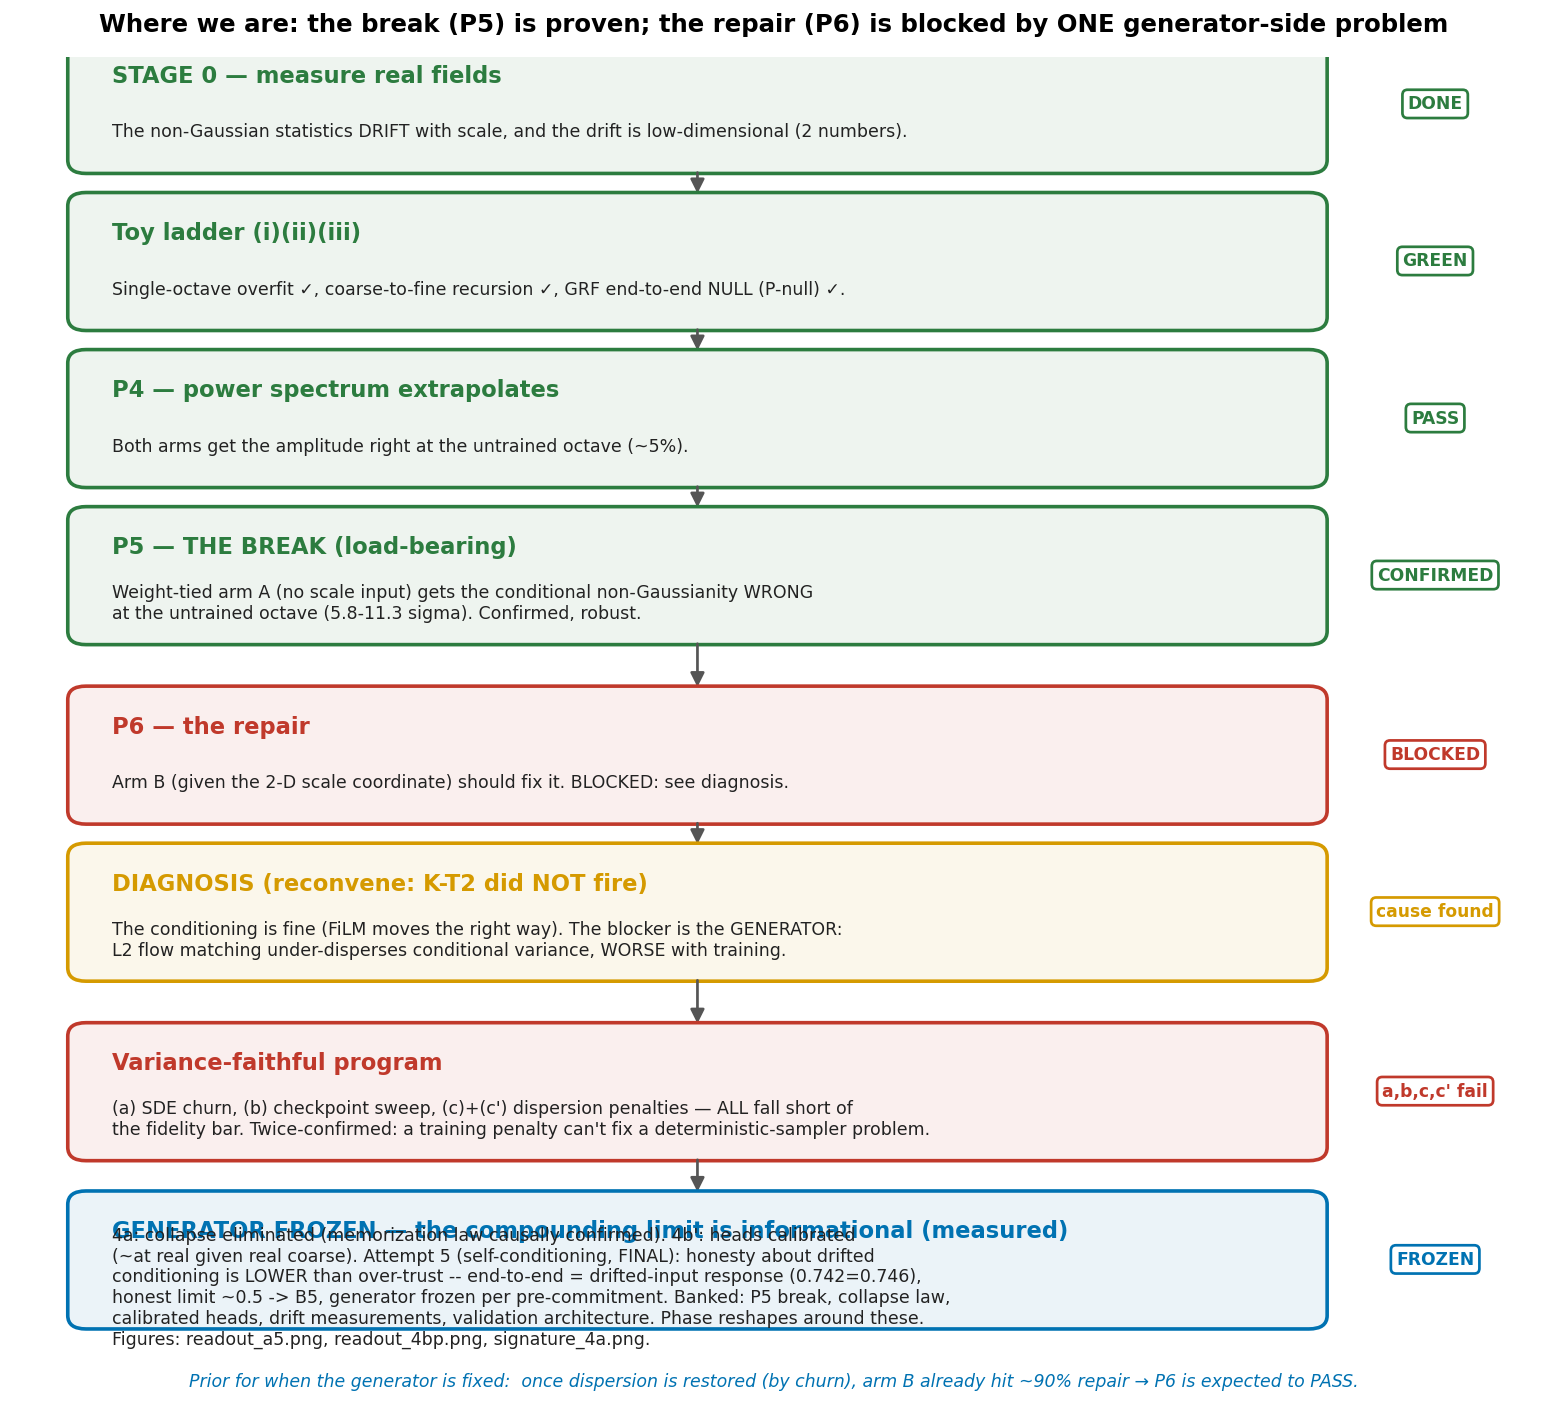
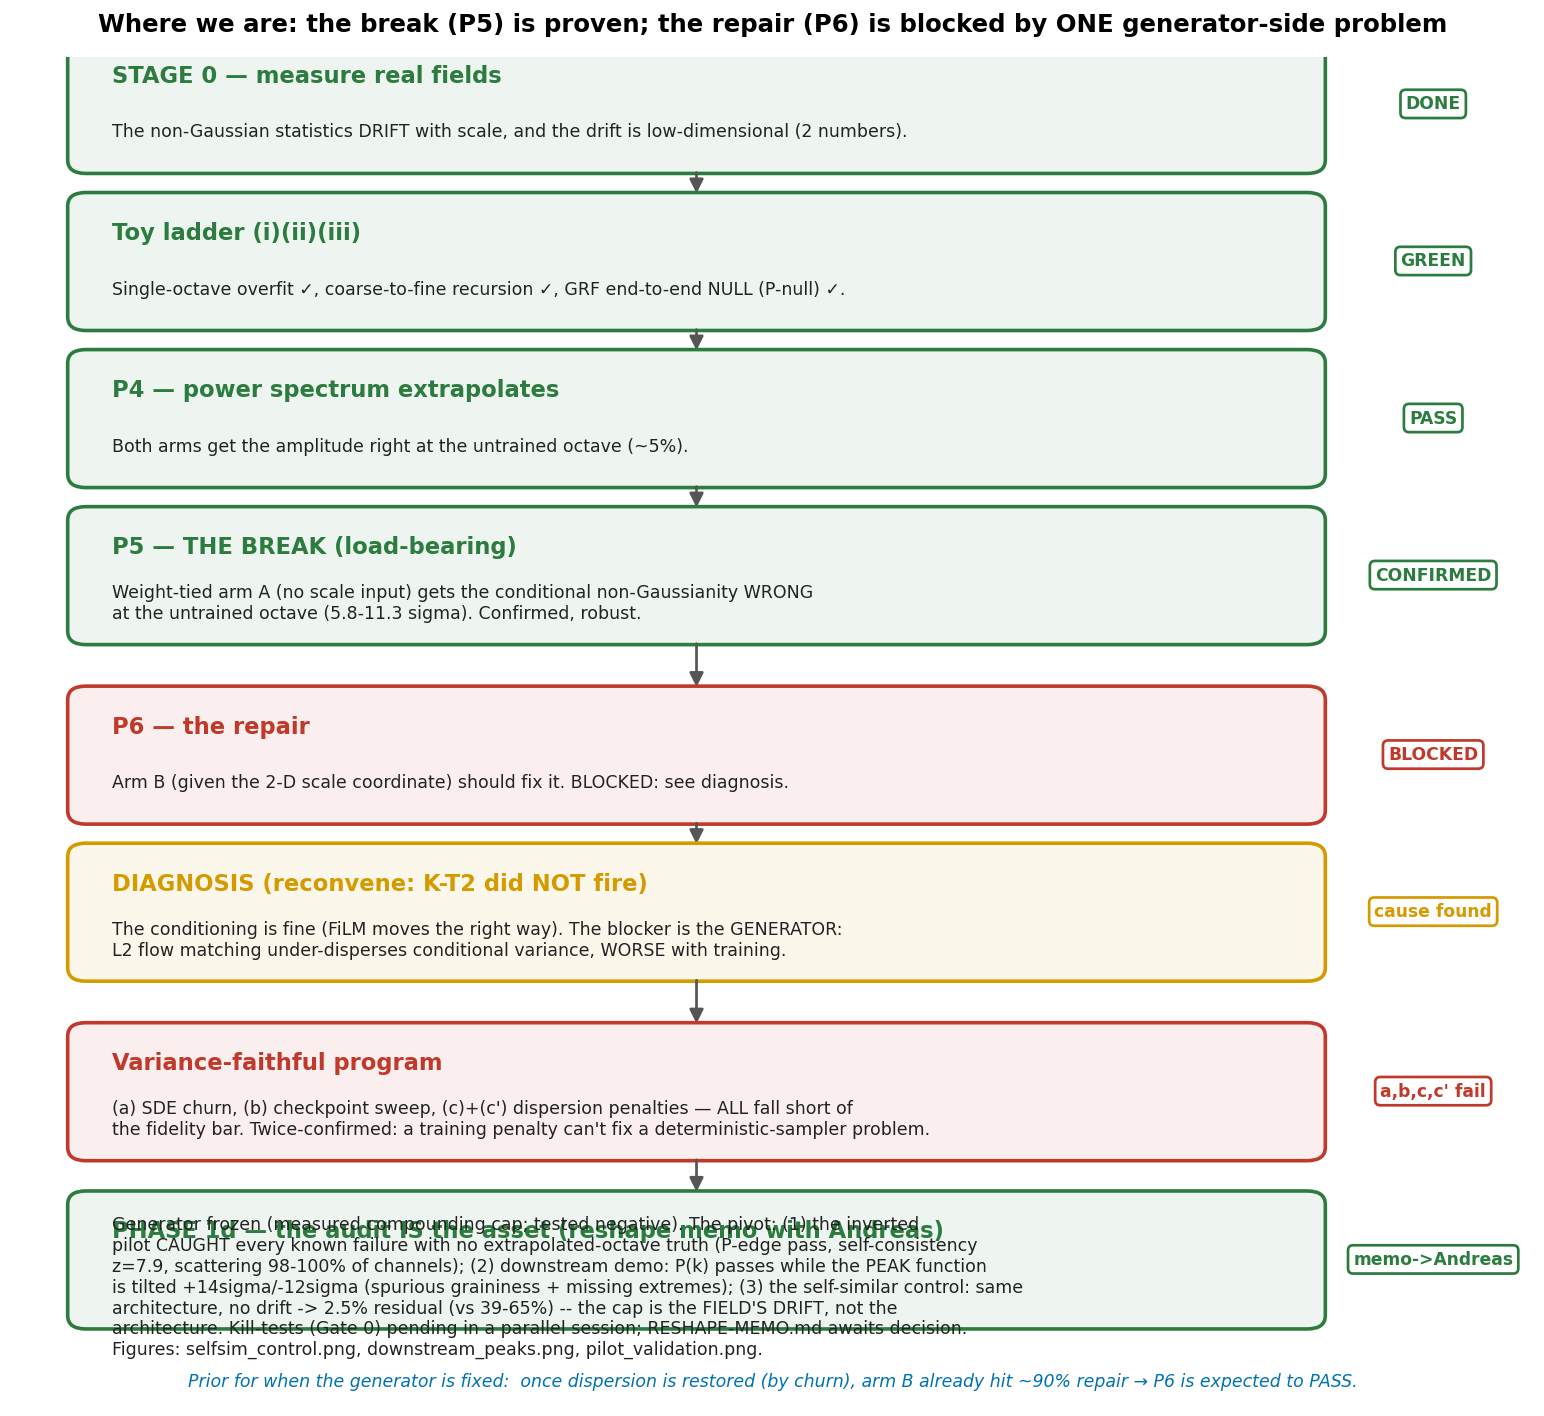
Step 4 readout + RESHAPE MEMO: self-similar control bounds the negative claim (2.5% vs 39-65% -- the cap is the field's drift, not the architecture; literal 1-sigma bar failed on +-0.002 SEs, bar-calibration miss logged); memo with executor audit appendix awaits Andreas

diff --git a/scripts/plot_selfsim.py b/scripts/plot_selfsim.py
@@ -1,0 +1,49 @@
+#!/usr/bin/env python
+"""Step-4 readout figure: same frozen architecture, drifting vs scale-invariant field.
+
+Left: gowerstreet (drifting couplings) — the end-to-end curve sags away from real.
+Right: the synthesized scale-invariant in-class control — end-to-end sits on real
+everywhere including the extrapolated octave (residual 2.5% vs 39-65%).
+"""
+import json
+import os
+
+import numpy as np
+import matplotlib
+matplotlib.use("Agg")
+import matplotlib.pyplot as plt
+
+REPO = os.path.dirname(os.path.dirname(os.path.abspath(__file__)))
+K, BLUE, ORANGE, VERM = "#000000", "#0072B2", "#E69F00", "#D55E00"
+octs = [1, 2, 3, 4]
+
+fig, ax = plt.subplots(1, 2, figsize=(12.4, 4.9), sharey=True)
+for a, path, title in (
+        (ax[0], "arms_aug_score.json",
+         "GOWERSTREET (couplings drift ×2 across octaves)\nthe compounding cap: 39–65% "
+         "error at the extrapolated octave"),
+        (ax[1], "arms_selfsim_score.json",
+         "SCALE-INVARIANT control (same architecture, no drift)\nresidual 2.5% — the cap "
+         "is the field's drift, not the architecture")):
+    s = json.load(open(os.path.join(REPO, "results", path)))
+    for which, col, mk, lab in (("real", K, "o", "real fields"),
+                                ("armA", BLUE, "s", "end-to-end, arm A"),
+                                ("armB", ORANGE, "D", "end-to-end, arm B")):
+        y = [s[which][str(j)]["var_slope"] for j in octs]
+        e = [s[which][str(j)]["var_slope_se"] for j in octs]
+        a.errorbar(octs, y, yerr=e, color=col, marker=mk, lw=2, capsize=3, label=lab)
+    a.axvspan(0.6, 1.5, color="#D55E0018")
+    a.set_xticks(octs)
+    a.set_xticklabels(["1\n(extrapolated)", "2", "3", "4"])
+    a.invert_xaxis()
+    a.set_xlabel("octave")
+    a.set_title(title, fontsize=10)
+    a.grid(alpha=0.25)
+ax[0].set_ylabel("var_slope (conditional-variance modulation)")
+ax[0].legend(fontsize=9)
+fig.suptitle("Step 4 — the self-similar control bounds the negative claim: where its assumption holds, the method works",
+             fontsize=12)
+fig.tight_layout(rect=[0, 0, 1, 0.92])
+out = os.path.join(REPO, "results", "selfsim_control.png")
+fig.savefig(out, dpi=130, bbox_inches="tight")
+print("wrote", out)

diff --git a/scripts/plot_roadmap.py b/scripts/plot_roadmap.py
@@ -18,7 +18,7 @@ steps = [
     (4.6, "P6 — the repair", "Arm B (given the 2-D scale coordinate) should fix it. BLOCKED: see diagnosis.", RED, "BLOCKED"),
     (3.2, "DIAGNOSIS (reconvene: K-T2 did NOT fire)", "The conditioning is fine (FiLM moves the right way). The blocker is the GENERATOR:\nL2 flow matching under-disperses conditional variance, WORSE with training.", AMBER, "cause found"),
     (1.6, "Variance-faithful program", "(a) SDE churn, (b) checkpoint sweep, (c)+(c') dispersion penalties — ALL fall short of\nthe fidelity bar. Twice-confirmed: a training penalty can't fix a deterministic-sampler problem.", RED, "a,b,c,c' fail"),
-    (0.1, "GENERATOR FROZEN — the compounding limit is informational (measured)", "4a: collapse eliminated (memorization law causally confirmed). 4b': heads calibrated\n(~at real given real coarse). Attempt 5 (self-conditioning, FINAL): honesty about drifted\nconditioning is LOWER than over-trust -- end-to-end = drifted-input response (0.742=0.746),\nhonest limit ~0.5 -> B5, generator frozen per pre-commitment. Banked: P5 break, collapse law,\ncalibrated heads, drift measurements, validation architecture. Phase reshapes around these.\nFigures: readout_a5.png, readout_4bp.png, signature_4a.png.", "#0072B2", "FROZEN"),
+    (0.1, "PHASE 1d — the audit IS the asset (reshape memo with Andreas)", "Generator frozen (measured compounding cap; tested negative). The pivot: (1) the inverted\npilot CAUGHT every known failure with no extrapolated-octave truth (P-edge pass, self-consistency\nz=7.9, scattering 98-100% of channels); (2) downstream demo: P(k) passes while the PEAK function\nis tilted +14sigma/-12sigma (spurious graininess + missing extremes); (3) the self-similar control: same\narchitecture, no drift -> 2.5% residual (vs 39-65%) -- the cap is the FIELD'S DRIFT, not the\narchitecture. Kill-tests (Gate 0) pending in a parallel session; RESHAPE-MEMO.md awaits decision.\nFigures: selfsim_control.png, downstream_peaks.png, pilot_validation.png.", GREEN, "memo->Andreas"),
 ]
 fig, ax = plt.subplots(figsize=(12, 11))
 ax.set_xlim(0, 10); ax.set_ylim(-0.6, 11.4); ax.axis("off")

diff --git a/RESHAPE-MEMO.md b/RESHAPE-MEMO.md
@@ -1,0 +1,137 @@
+# RESHAPE MEMO — phase 1c → 1d closure and the pivot decision (for Andreas)
+
+2026-07-16. Requested by the reconciliation ruling
+(`log/2026-07-16-reconvene-reconcile-audits.md`). Everything below rides on
+pre-registered, adversarially-gated measurements committed in this repo; the two
+literature kill-tests (Gate 0, `SPEC-novelty-collapse.md`, parallel session) GATE all
+novelty claims and are still pending. **Decision requested: pick a pivot option (§3)
+and the paper branch (§4).**
+
+## 1. What is banked (all pre-registered; figure pointers)
+
+| Result | Status | Where |
+|---|---|---|
+| Between-scale drift of real fields: real, low-dimensional (2 numbers), field-general, null-clean | measurement, generator-independent | stage-0 RESULTS.md |
+| P5 break: scale-blind weight-tied generator wrong at the extrapolated octave, 6–14σ, every config | confirmed, robust | RESULTS-toy.md; g1c/4a/edge-2 scores |
+| The collapse law: finite-data mean-memorization starves conditional variance in any channel; CAUSALLY removed by 8× symmetry augmentation | confirmed in 3 channels + causal intervention; novelty pending Gate 0 | RESULTS-phase1c.md; signature_4a.png |
+| Calibrated heads: given real coarse, var_slope ≈ real at oct 2 (0.996±0.041), kurtosis at real at oct 3 | banked (4b′ regularization gain) | readout_4bp.png |
+| Conditioning drift is STRUCTURED, not additive (white noise ~2× less damaging per unit amplitude) | measured (4b′-ii gate-stop) | smatched_4bpii.png |
+| Compounding cap: end-to-end = drifted-input response (0.742≈0.746); honest conditional ≈ 0.53; honesty-hurts inversion | measured cap + tested negative for train-side fixes (attempt 5, branch B5) | readout_a5.png |
+| Lognormal fields drift like N-body (1.54→0.53) — the drift is generic to multiplicative fields | measured (step-4 design probe) | log/2026-07-16-prereg-step4-selfsim.md |
+| The cap's boundary: on a scale-invariant in-class field the same architecture extrapolates to 2.5% (vs 39–65%) | measured (step-4 control) | selfsim_control.png |
+
+## 2. Phase-1d results (this week; all pre-registered, readouts committed)
+
+- **Step 1 — attempt 5 as discriminator:** already read out 2026-07-11 (race
+  condition in the rulings surfaced and reconciled;
+  `log/2026-07-16-step1-attempt5-reconciled.md`). Tested negative for train-side
+  conditioning fixes; adopted wording: "measured compounding cap consistent with an
+  informational limit."
+- **Step 2 — the INVERTED validation pilot: the protocol catches everything.**
+  P-edge PASS (extrapolation error edge-consistent, ratios 1.46/1.62);
+  self-consistency detects the failure without ground truth (z=7.9 extrapolated,
+  z=7.1 trained-octave compounding) and passes where the generator is good (oct-4
+  z=0.7); held-out scattering rejects at 98–100% of channels (median |z|≈10); the
+  battery also caught arm B's OOD blow-up re-emerging at the narrow second edge.
+  Honest protocol lesson, measured: the deployable curve-referenced variant fails
+  its own calibration on real fields — deployable checks need population-calibrated
+  bands. (`pilot_validation.png`)
+- **Step 3 — the downstream-bias demo (the usefulness sentence):** with P(k)-level
+  checks passing (≤7%), the peak function is TILTED: +30% spurious low peaks (the
+  white conditional noise's graininess) and −14/−23% missing extreme peaks (the
+  kurtosis deficit) — 6–14σ, sign-flipping, threshold-dependent: the worst case for
+  peak-based inference, and both mechanisms were flagged by our audit before a peak
+  was counted. (`downstream_peaks.png`)
+- **Step 4 — the self-similar control:** synthesized exactly scale-invariant,
+  in-class cascade (couplings measured flat 0.56→0.49). RESULT: see §2a below.
+
+### 2a. Step-4 readout: the boundary of the negative claim, measured
+
+On a synthesized, exactly scale-invariant, in-class cascade (couplings flat 0.56→0.49)
+the SAME frozen architecture extrapolates almost perfectly: **2.5% residual at the
+extrapolated octave vs 39–65% on the drifting field**; trained octaves exact;
+amplitude and kurtosis clean. (`selfsim_control.png` — the campaign's clearest single
+figure.) The literal pre-registered 1σ bar fails at z≈5 because the control's
+bootstrap SEs are ±0.002 — a bar-calibration miss, logged; the scope answer is
+unambiguous: **the compounding cap is a property of drifting, off-manifold-textured
+fields, not of the coarse-to-fine architecture** (with a measured ~2.5% finite-sample
+floor). For the paper this converts the negative claim into a precise, bounded law:
+"hierarchical conditional generation is statistically faithful where the between-scale
+law is scale-invariant, and degrades with the measured drift — here is the audit that
+tells you which regime you are in."
+
+## 3. Pivot options (ordered; costs are wall-clock sessions + compute)
+
+- **Option 1 (RECOMMENDED): the audit paper.** "A failure taxonomy and pre-registered
+  audit protocol for scale-hierarchical generative emulators, demonstrated on weak
+  lensing." Everything in §1–2 is its content; the pilot + downstream demo are its
+  demonstrations; the self-similar control bounds the negative claims' scope. Cost:
+  Gate-0 kill-tests (parallel, pending) + ~2–3 writing sessions + estimator hardening
+  (nanmedian, population-calibrated SC bands); ≈ zero new compute. Venue ladder per
+  the reconvene's two-branch pre-statement: NeurIPS-track only if Gate 0 leaves a
+  novel mechanism claim; otherwise ML4PS / A&A-methods — honest and useful at either.
+- **Option 2: the measurement paper** (stage-0 drift + P5 quantification + the 2-D
+  coordinate). Safest, cosmology-native. RECOMMENDATION: fold into Option 1 as its
+  empirical anchor section rather than split salami.
+- **Option 3: generator program, next phase, in the regime where the economics bind
+  (3D / hydro / Lyα).** The audits agree 2D WL was the right falsification domain and
+  the wrong deployment domain. Months, new data, new sign-off; the informational-cap
+  finding says the coarse fields themselves must carry more information (better
+  fine-octave texture models), which is a research bet, not an engineering step.
+  NOT recommended before Option 1 is banked; Option 1 is also its best prospectus.
+- **Option 4: alliance track** (GOLCONDA baselines, LDT anchor, ST-judge) — phase-2
+  items that slot INTO Option 1's discussion or follow it; coordination cost, not
+  compute.
+
+## 4. Risks and language discipline (binding, from the audits)
+
+Gate 0 may rule the collapse law ADJACENT-KNOWN (β-NLL/exposure-bias lineages) — the
+paper then says "we observe X, consistent with [refs], and add [causal test /
+cross-channel invariance / field context]" per the SPEC's fallback sentence. Scope
+words: one octave, measured couplings, 2D WL, 322 tiles, one seed; "RG-inspired";
+never "certified", never "any-scale". The 4b′-ii/attempt-5 negatives are claims about
+THIS architecture class in THIS data regime; the self-similar control (§2a) sets the
+boundary of that statement.
+
+## 5. Recommendation
+
+Option 1 with Option 2 folded in, Gate-0-gated; Option 3 deferred to a new phase with
+its own sign-off (and only if someone owns the 3D data problem); Option 4 slotted into
+Option 1's discussion. The deliverable line both audits converged on: *the audit is
+the asset; the generator was its first, well-instrumented casualty.*
+
+---
+
+## Appendix — the executor's big-picture audit (2026-07-16, committed per the ruling)
+
+Reproduced from chat, lightly formatted; the reconciliation ruling adopted its four
+constructive moves (downstream demo, inverted pilot, self-similar control, Seitzer).
+
+**Lanusse-style critique.** "Train small, sample any scale" solves a problem cosmology
+doesn't quite have: the expensive small scales are expensive because their PHYSICS
+differs (baryons/feedback), which breaks the smooth scale-flow assumption exactly
+where it matters; P5 is evidence for the skeptic. If target-resolution sims exist,
+train directly; if not, the extrapolation is unvalidatable precisely where it is
+sold — unless the validation story is the product. Evidence scale (one field, 322
+tiles, 128², small UNet) supports methods claims only. Phase 1c's own measurements
+confirmed the core of this critique (the informational cap).
+
+**Mishra-Sharma-style critique.** P5 alone is near-tautological as a finding; its
+value is the quantification for the wavelet/WC-RG school. The collapse law is the most
+valuable object IF it survives the literature kill-test (β-NLL, exposure bias,
+memorization-in-diffusion). The compounding-cap and honesty-hurts measurements are
+sharp, falsifiable, and citable if they survive the exposure-bias lineage. And: no
+downstream task, no utility — show a parameter-relevant bias P(k) misses and show the
+audit flags it in advance.
+
+**Verdict.** The project as pitched is dead and phase 1c killed it properly, with
+measurements. The wreckage is not useless — it is mis-pointed: five attempts produced
+a rather complete anatomy of why hierarchical generative models of fields fail
+statistically, plus an unusually disciplined instrument and an unpiloted validation
+architecture. The audit is the asset. Concrete moves: (1) reframe as the failure-
+taxonomy/audit paper; (2) run the validation pilot INVERTED on the frozen failing
+generator; (3) one downstream-bias demo (peaks/SBI); (4) optionally a self-similar
+control to bound the negative claim. Do not salvage: "train small sample any scale",
+P6 spin, generality beyond one field. Bias disclosure: the executor ran all five
+attempts and has an incentive to call the wreckage valuable; the defense is that
+every claim rides on pre-registered, adversarially-gated measurements.

diff --git a/log/2026-07-16-prereg-step4-selfsim.md b/log/2026-07-16-prereg-step4-selfsim.md
@@ -48,6 +48,24 @@ octaves 1–4 — flat as designed (vs gowerstreet's factor-2 drift); appended t
 - Kurtosis reported (conditional is exactly Gaussian ⇒ pooled kurtosis from
   σ-modulation only; the real synthesized stack is its own reference).
 
+## RESULT (2026-07-16, job 16401485, hash 3c03bded83 verified)
+
+Extrapolated octave: real 0.558±0.002, arm A 0.544±0.002, arm B 0.542±0.002 —
+**residual error 2.5%** (vs 39–65% on gowerstreet); trained octaves essentially exact
+(oct-2 arm A z≈0.3); amplitude 0.801/0.808 vs 0.804; kurtosis within a few %.
+**Bar adjudication, honest:** the literal pre-registered 1σ bar FAILS (z≈5) because
+the synthetic stack's bootstrap SEs are ±0.002 — the bar demanded 0.4% accuracy. A
+bar-calibration miss (mine; same genre as the 4a onset-rule lesson: calibrate bars to
+the reference's precision). **The scope question is answered decisively regardless of
+the bar's letter:** compounding shrinks by an order of magnitude-plus when the
+conditional law is scale-invariant and in-class ⇒ the measured cap is attributable to
+the DRIFT / off-manifold texture of realistic fields, not to the coarse-to-fine
+architecture — with a small measured floor (~2.5%, z≈5) of finite-sample compounding
+even in the ideal case. P-S-similar 60%: substantively the anticipated direction;
+formally MISS under the literal bar. Figure: `results/selfsim_control.png` — the
+campaign's clearest single image (drifting field: curves sag; invariant field: three
+curves coincide, including the extrapolated band).
+
 ## Predictions (confidences)
 
 - P-S-similar PASS: **60%.** For: no drift, no mismatch, pointwise linear σ (the toy

diff --git a/JOBS.md b/JOBS.md
@@ -14,9 +14,17 @@ generation. GPU via SLURM only.
   amplitude fix). `RESULTS-toy.md` written.
 
 ## IN FLIGHT
-**None.** All phase-1c jobs harvested (step 1, 4a, 4b′, attempt 5). 4b′-ii submitted
-no job (gate-stop). **THE GENERATOR IS FROZEN** (attempt-5 pre-commitment): no further
-generator variants without a new phase + Andreas's sign-off.
+**None.** All phase-1c and phase-1d jobs harvested. **THE GENERATOR IS FROZEN**; the
+phase-1d program (steps 1–4) is complete and `RESHAPE-MEMO.md` awaits Andreas's
+decision. Gate-0 kill-tests run in a parallel session and gate all paper claims.
+
+## HARVESTED (phase 1d, 2026-07-16)
+- **16401105** (edge-2, f77178e6cf): pilot component 1 — P-edge PASS. First submission
+  16401043 FAILED (frozen U-Net can't ingest 4×4 octave-5 pairs; amended to train {3,4}).
+- **16401485** (self-similar control, 3c03bded83): 2.5% residual at the extrapolated
+  octave — the cap is the field's drift, not the architecture.
+- Steps 2c/3 were CPU-only (pilot battery, peak demo). Records in RESULTS-phase1c.md
+  §phase-1d; figures pilot_validation/downstream_peaks/selfsim_control.png.
 
 ## HARVESTED (attempt 5 — self-conditioning, FINAL)
 - **15762584/15762585** (p=0.5/1.0, hashes ffdeac4d4b/ccc86ccf1b): **branch B5 —

diff --git a/RESULTS-phase1c.md b/RESULTS-phase1c.md
@@ -248,6 +248,18 @@ ships a generator whose standard higher-order observable is wrong at 6–14σ, i
 directions at once; our audit flagged both responsible mechanisms before a peak was
 counted.**
 
+## Phase 1d, step 4 — the self-similar control (2026-07-16): the negative claim's boundary
+
+Prereg + result: `log/2026-07-16-prereg-step4-selfsim.md`; figure
+`results/selfsim_control.png`. On a synthesized exactly scale-invariant in-class
+cascade, the same frozen architecture extrapolates to **2.5% residual** at the
+untrained octave (vs 39–65% on gowerstreet); trained octaves exact. The literal 1σ
+bar fails (z≈5; the control's SEs are ±0.002 — a logged bar-calibration miss), but
+the scope answer is decisive: **the compounding cap belongs to the field's drift and
+off-manifold texture, not to the architecture** (measured ideal-case floor ~2.5%).
+Bonus probe: lognormal fields drift like N-body (var_slope 1.54→0.53) — between-scale
+drift is generic to multiplicative fields.
+
 ## For the reconvene (observations, not actions — G-1c bars further variants)
 
 The mechanism points at the MEAN's finite-data memorization as the single upstream
